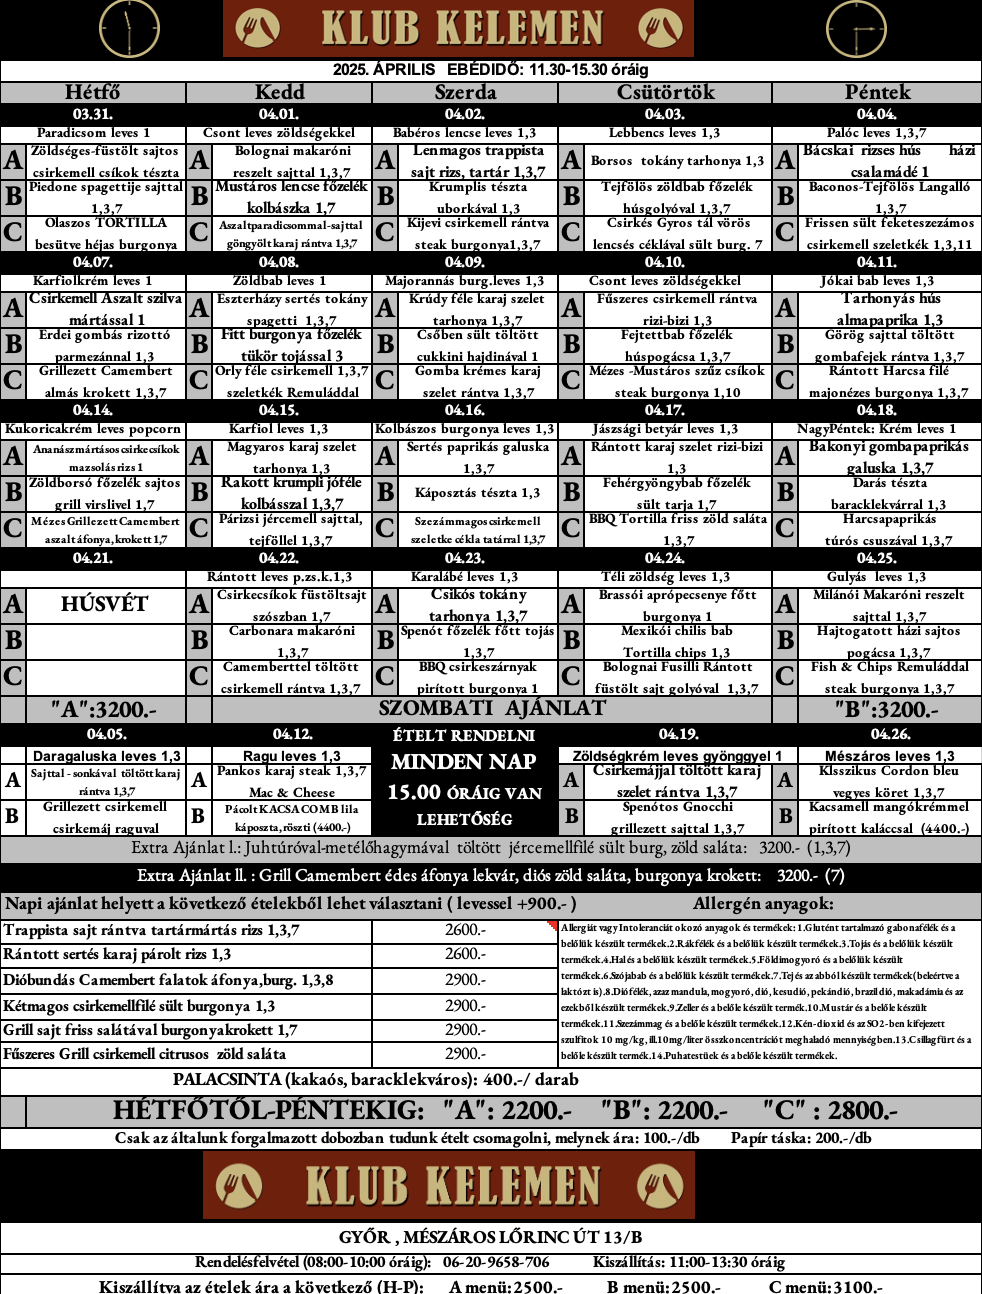
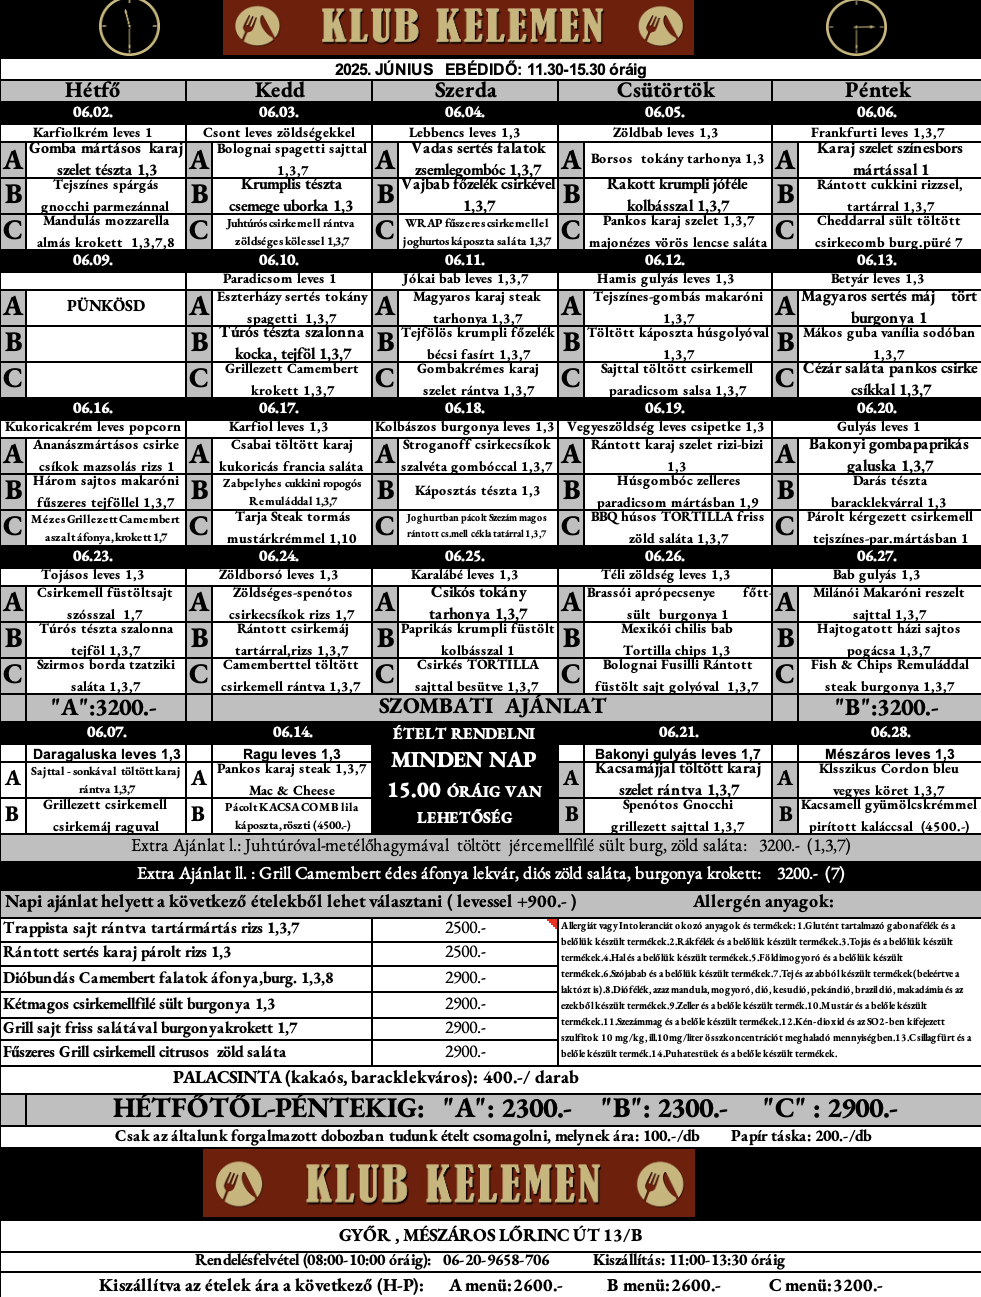
menu updated

diff --git a/index.html b/index.html
@@ -176,7 +176,7 @@
                                 <div class="text-wrap">
                                     <div class="row align-items-start">
                                         <div class="col-12">
-                                            <h4>Karfiolkrém leves 1</h4>
+                                            <h4>PÜNKÖSD</h4>
                                         </div>
                                     </div>
                                 </div>
@@ -185,30 +185,30 @@
                                 <div class="text-wrap">
                                     <div class="row align-items-start">
                                         <div class="col-12">
-                                            <h4>Gomba mártásos  karaj szelet tészta</h4>
+                                            <h4></h4>
                                         </div>
                                     </div>
-                                    <p>1, 3</p>
+                                    <p></p>
                                 </div>
                             </div>
                             <div class="menus d-flex align-items-center">
                                 <div class="text-wrap">
                                     <div class="row align-items-start">
                                         <div class="col-12">
-                                            <h4>Tejszínes spárgás gnocchi parmezánnal</h4>
+                                            <h4></h4>
                                         </div>
                                     </div>
-                                    <p>1 3,, 7</p>
+                                    <p></p>
                                 </div>
                             </div>
                             <div class="menus d-flex align-items-center">
                                 <div class="text-wrap">
                                     <div class="row align-items-start">
                                         <div class="col-12">
-                                            <h4>Mandulás mozzarella almás krokett</h4>
+                                            <h4></h4>
                                         </div>
                                     </div>
-                                    <p>1, 3, 7, 8</p>
+                                    <p></p>
                                 </div>
                             </div>
                         </div>
@@ -221,7 +221,7 @@
                                 <div class="text-wrap">
                                     <div class="row align-items-start">
                                         <div class="col-12">
-                                            <h4>Csont leves zöldségekkel</h4>
+                                            <h4>Paradicsom leves 1</h4>
                                         </div>
                                     </div>
                                 </div>
@@ -230,7 +230,7 @@
                                 <div class="text-wrap">
                                     <div class="row align-items-start">
                                         <div class="col-12">
-                                            <h4>Bolognai spagetti sajttal</h4>
+                                            <h4>Eszterházy sertés tokény spagetti</h4>
                                         </div>
                                     </div>
                                     <p>1, 3, 7</p>
@@ -240,17 +240,17 @@
                                 <div class="text-wrap">
                                     <div class="row align-items-start">
                                         <div class="col-12">
-                                            <h4>Krumplis tészta csemege uborka</h4>
+                                            <h4>Túrós tészta szalonna kocka, tejföl</h4>
                                         </div>
                                     </div>
-                                    <p>1, 3</p>
+                                    <p>1, 3, 7</p>
                                 </div>
                             </div>
                             <div class="menus d-flex align-items-center">
                                 <div class="text-wrap">
                                     <div class="row align-items-start">
                                         <div class="col-12">
-                                            <h4>Juhtúrós csirkemell rántva zöldséges kölessel</h4>
+                                            <h4>Grillezett Camembert krokett</h4>
                                         </div>
                                     </div>
                                     <p>1, 3, 7</p>
@@ -266,7 +266,7 @@
                                 <div class="text-wrap">
                                     <div class="row align-items-start">
                                         <div class="col-12">
-                                            <h4>Lebbencs leves 1,3</h4>
+                                            <h4>Jókai bab leves 1, 3, 7</h4>
                                         </div>
                                     </div>
                                 </div>
@@ -275,17 +275,7 @@
                                 <div class="text-wrap">
                                     <div class="row align-items-start">
                                         <div class="col-12">
-                                            <h4>Vadas sertés falatok zsemlegombóc</h4>
-                                        </div>
-                                    </div>
-                                    <p>1, 3, 7</p>
-                                </div>
-                            </div>
-                            <div class="menus d-flex align-items-center">
-                                <div class="text-wrap">
-                                    <div class="row align-items-start">
-                                        <div class="col-12">
-                                            <h4>Vajbab főzelék csirkével</h4>
+                                            <h4>Magyaros karaj steak tarhonya</h4>
                                         </div>
                                     </div>
                                     <p>1, 3, 7</p>
@@ -295,7 +285,17 @@
                                 <div class="text-wrap">
                                     <div class="row align-items-start">
                                         <div class="col-12">
-                                            <h4>WRAP fűszeres csirkemellel joghurtos káposzta saláta</h4>
+                                            <h4>Tejfölös krumpli főzelék bécsi fasírt</h4>
+                                        </div>
+                                    </div>
+                                    <p>1, 3, 7</p>
+                                </div>
+                            </div>
+                            <div class="menus d-flex align-items-center">
+                                <div class="text-wrap">
+                                    <div class="row align-items-start">
+                                        <div class="col-12">
+                                            <h4>Gombakrémes karaj szelet rántva</h4>
                                         </div>
                                     </div>
                                     <p>1, 3, 7</p>
@@ -311,7 +311,7 @@
                                 <div class="text-wrap">
                                     <div class="row align-items-start">
                                         <div class="col-12">
-                                            <h4>Zöldbab leves 1,3</h4>
+                                            <h4>Hamis gulyás leves 1, 3</h4>
                                         </div>
                                     </div>
                                 </div>
@@ -320,17 +320,7 @@
                                 <div class="text-wrap">
                                     <div class="row align-items-start">
                                         <div class="col-12">
-                                            <h4>Borsos  tokány tarhonya</h4>
-                                        </div>
-                                    </div>
-                                    <p>1, 3</p>
-                                </div>
-                            </div>
-                            <div class="menus d-flex align-items-center">
-                                <div class="text-wrap">
-                                    <div class="row align-items-start">
-                                        <div class="col-12">
-                                            <h4>Rakott krumpli jóféle kolbásszal</h4>
+                                            <h4>Tejszínes-gombás makaróni</h4>
                                         </div>
                                     </div>
                                     <p>1, 3, 7</p>
@@ -340,7 +330,17 @@
                                 <div class="text-wrap">
                                     <div class="row align-items-start">
                                         <div class="col-12">
-                                            <h4>Pankos karaj szelet majonézes vörös lencse saláta</h4>
+                                            <h4>Töltött káposzta húsgolyóval</h4>
+                                        </div>
+                                    </div>
+                                    <p>1, 3, 7</p>
+                                </div>
+                            </div>
+                            <div class="menus d-flex align-items-center">
+                                <div class="text-wrap">
+                                    <div class="row align-items-start">
+                                        <div class="col-12">
+                                            <h4>Sajttal töltött csirkemell paradicsom salsa</h4>
                                         </div>
                                     </div>
                                     <p>1, 3, 7</p>
@@ -356,7 +356,7 @@
                                 <div class="text-wrap">
                                     <div class="row align-items-start">
                                         <div class="col-12">
-                                            <h4>Frankfurti leves 1,3,7</h4>
+                                            <h4>Betyáros leves 1, 3</h4>
                                         </div>
                                     </div>
                                 </div>
@@ -365,7 +365,7 @@
                                 <div class="text-wrap">
                                     <div class="row align-items-start">
                                         <div class="col-12">
-                                            <h4>Karaj szelet színesbors mártással</h4>
+                                            <h4>Magyaros sertés más tört burgonya 1</h4>
                                         </div>
                                     </div>
                                     <p>1</p>
@@ -375,7 +375,7 @@
                                 <div class="text-wrap">
                                     <div class="row align-items-start">
                                         <div class="col-12">
-                                            <h4>Rántott cukkini rizzsel, tartárral</h4>
+                                            <h4>Mákos guba vanília sodóban</h4>
                                         </div>
                                     </div>
                                     <p>1, 3, 7</p>
@@ -385,10 +385,10 @@
                                 <div class="text-wrap">
                                     <div class="row align-items-start">
                                         <div class="col-12">
-                                            <h4>Cheddarral sült töltött csirkecomb burg.püré</h4>
+                                            <h4>Cézár saláta pankos csirke csíkkal</h4>
                                         </div>
                                     </div>
-                                    <p>7</p>
+                                    <p>1, 3, 7</p>
                                 </div>
                             </div>
                         </div>
@@ -401,7 +401,7 @@
                                 <div class="text-wrap">
                                     <div class="row align-items-start">
                                         <div class="col-12">
-                                            <h4>Daragaluska leves 1,3</h4>
+                                            <h4>Ragu leves 1, 3</h4>
                                         </div>
                                     </div>
                                 </div>
@@ -410,7 +410,7 @@
                                 <div class="text-wrap">
                                     <div class="row align-items-start">
                                         <div class="col-12">
-                                            <h4>Sajttal - sonkával  töltött karaj  rántva</h4>
+                                            <h4>Pankos karaj steak Mac & Chesse</h4>
                                         </div>
                                     </div>
                                     <p>1, 3, 7</p>
@@ -420,7 +420,7 @@
                                 <div class="text-wrap">
                                     <div class="row align-items-start">
                                         <div class="col-12">
-                                            <h4>Grillezett csirkemell csirkemáj raguval</h4>
+                                            <h4>Pácolt KACSA COMB lila káposzta, röszti (4500,-)</h4>
                                         </div>
                                     </div>
                                     <p></p>
